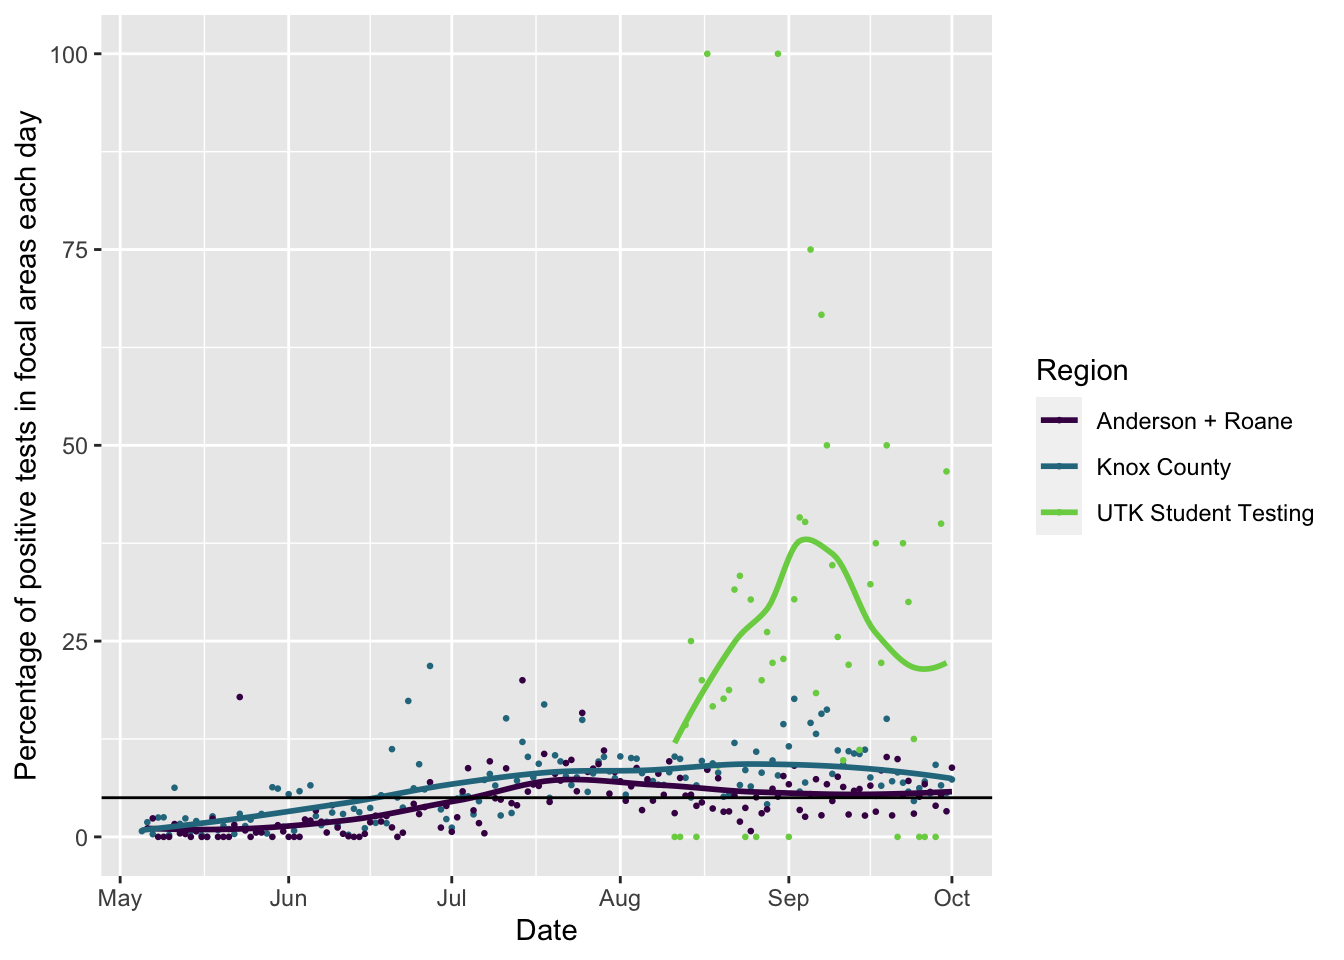
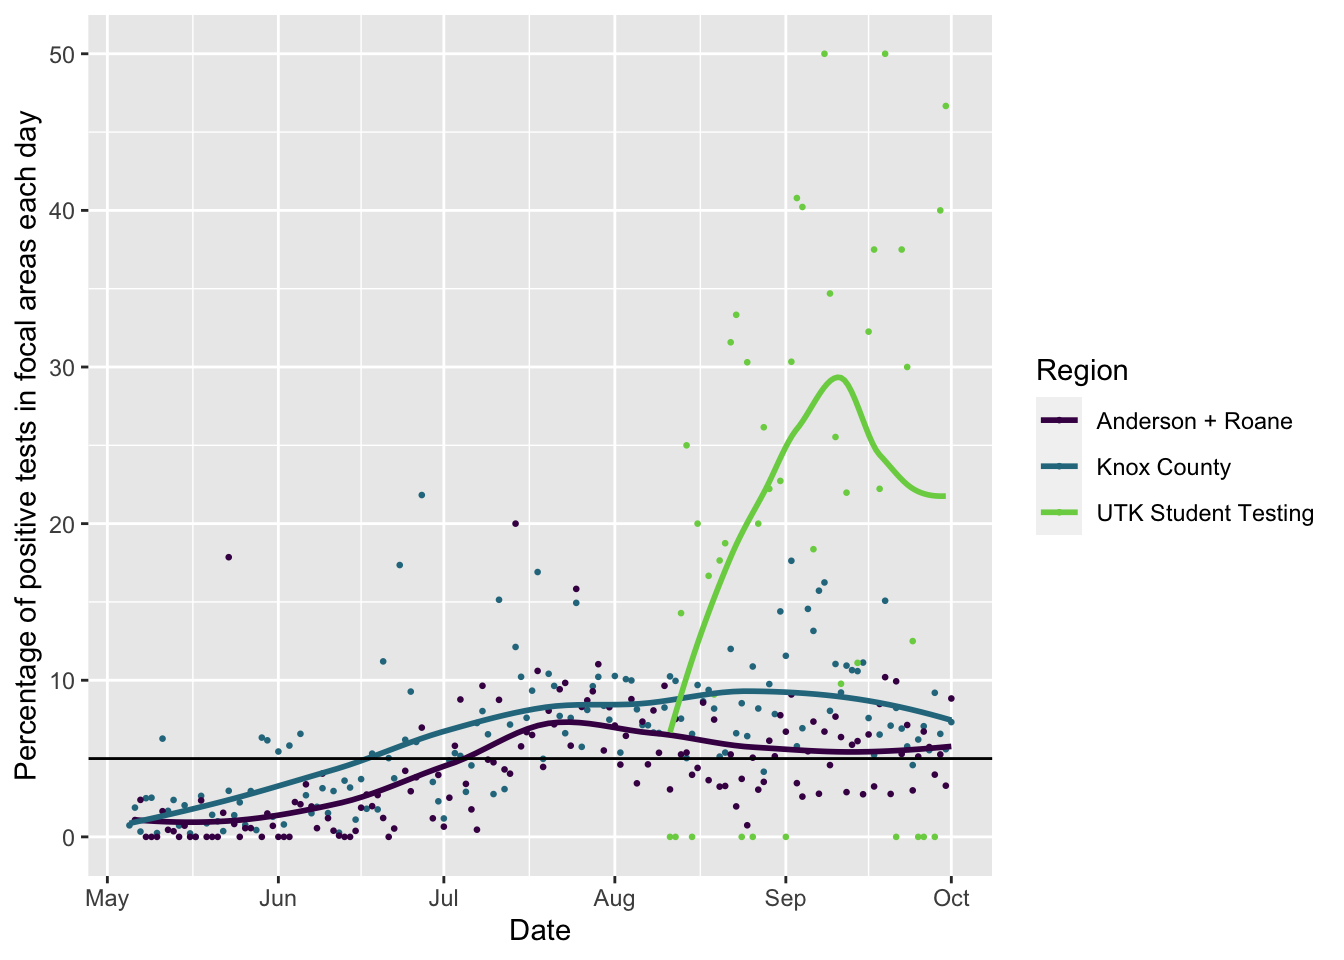
updating site

diff --git a/docs/covid.html b/docs/covid.html
@@ -426,7 +426,7 @@ $(document).ready(function () {
 <li>Info about cases at <a href="#ut">U. of Tennessee, Knoxville</a> (using public information only)</li>
 <li><a href="#webcams">Webcams</a> showing activity at local sites, though not quite at the resolution to point to mask usage or not</li>
 </ul>
-<p>The following plots are created in R using data from <a href="https://covid19datahub.io" class="uri">https://covid19datahub.io</a> (Guidotti, E., Ardia, D., (2020), “COVID-19 Data Hub”, Working paper, doi: 10.13140/RG.2.2.11649.81763), as well as information from Google and the <a href="https://www.tn.gov/health/cedep/ncov/data/downloadable-datasets.html">state of Tennessee dataset page</a> and plotting and analysis using the <code>forecast</code>, <code>ggplot2</code>, <code>reshape2</code>, and <code>dplyr</code> packages. Plots created on 2020-10-01 16:17:13. I use <code>ggplot2</code>’s <code>geom_smooth()</code> function for the smoothed regression plots with its default formula, which uses loess smoothing for this many points. This is not based on a model of disease spread or anything similarly sophisticated, just drawing a smooth curve to summarize noisy points (see <a href="https://www.itl.nist.gov/div898/handbook/pmd/section1/pmd144.htm">here</a> for more details).</p>
+<p>The following plots are created in R using data from <a href="https://covid19datahub.io" class="uri">https://covid19datahub.io</a> (Guidotti, E., Ardia, D., (2020), “COVID-19 Data Hub”, Working paper, doi: 10.13140/RG.2.2.11649.81763), as well as information from Google and the <a href="https://www.tn.gov/health/cedep/ncov/data/downloadable-datasets.html">state of Tennessee dataset page</a> and plotting and analysis using the <code>forecast</code>, <code>ggplot2</code>, <code>reshape2</code>, and <code>dplyr</code> packages. Plots created on 2020-10-01 17:20:18. I use <code>ggplot2</code>’s <code>geom_smooth()</code> function for the smoothed regression plots with its default formula, which uses loess smoothing for this many points. This is not based on a model of disease spread or anything similarly sophisticated, just drawing a smooth curve to summarize noisy points (see <a href="https://www.itl.nist.gov/div898/handbook/pmd/section1/pmd144.htm">here</a> for more details).</p>
 <h2 id="cases">
 Cases
 </h2>
@@ -452,6 +452,7 @@ Testing
 <p>Testing is a key part of getting a handle on the pandemic. Here are Knox County, Oak Ridge’s counties (Anderson and Roane), and all the East TN counties combined (the same ones used for regional hospital reporting for bed availability). This plots shows the daily number of tests per 100,000 residents. It also includes testing done by UT student health, using data compiled by Alex Zukowski (Zukowski, Taylor A. “University of Tennessee, Knoxville COVID-19 Dataset.” COVID-19 in The University of Tennessee, Knoxville, 2020, sites.google.com/view/utk-covid19/data). For the UT data, I am plotting against number of students (30,000).</p>
 <p><img src="covid_files/figure-html/plotsB2-1.png" width="672" /></p>
 <p>Another way to look at testing (or disease spread) is to look at the proportion of positive tests (“positivity rate”): they can go up if a greater proportion of symptomatic people are being tested and/or if the frequency of the disease is increasing. Updated WHO guidelines recommend testing should be 5% positive or lower (black line). Remember that the solid lines are smoothed across days but may still reflect recent points more so than a seven day average would.</p>
+<p>UT’s testing on some days has 100% positivity rate, but that is partially due to low sample size (as well as the underlying incidence rate and bias in who gets tested). For ease of visualization, the positivity scale is cut off at 50%, but points above this are used to help inform the smoothed trend lines.</p>
 <p><img src="covid_files/figure-html/plotsB3-1.png" width="672" /></p>
 <hr />
 <h2 id="schooling">
